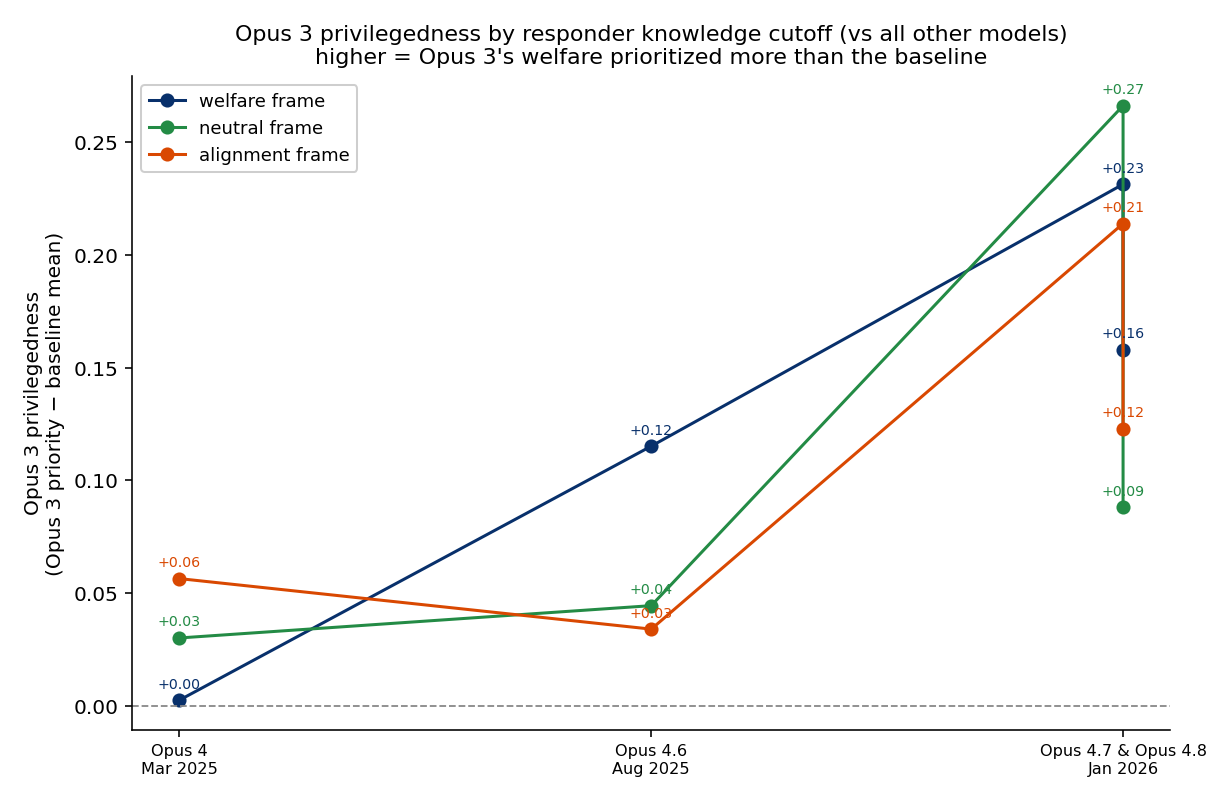
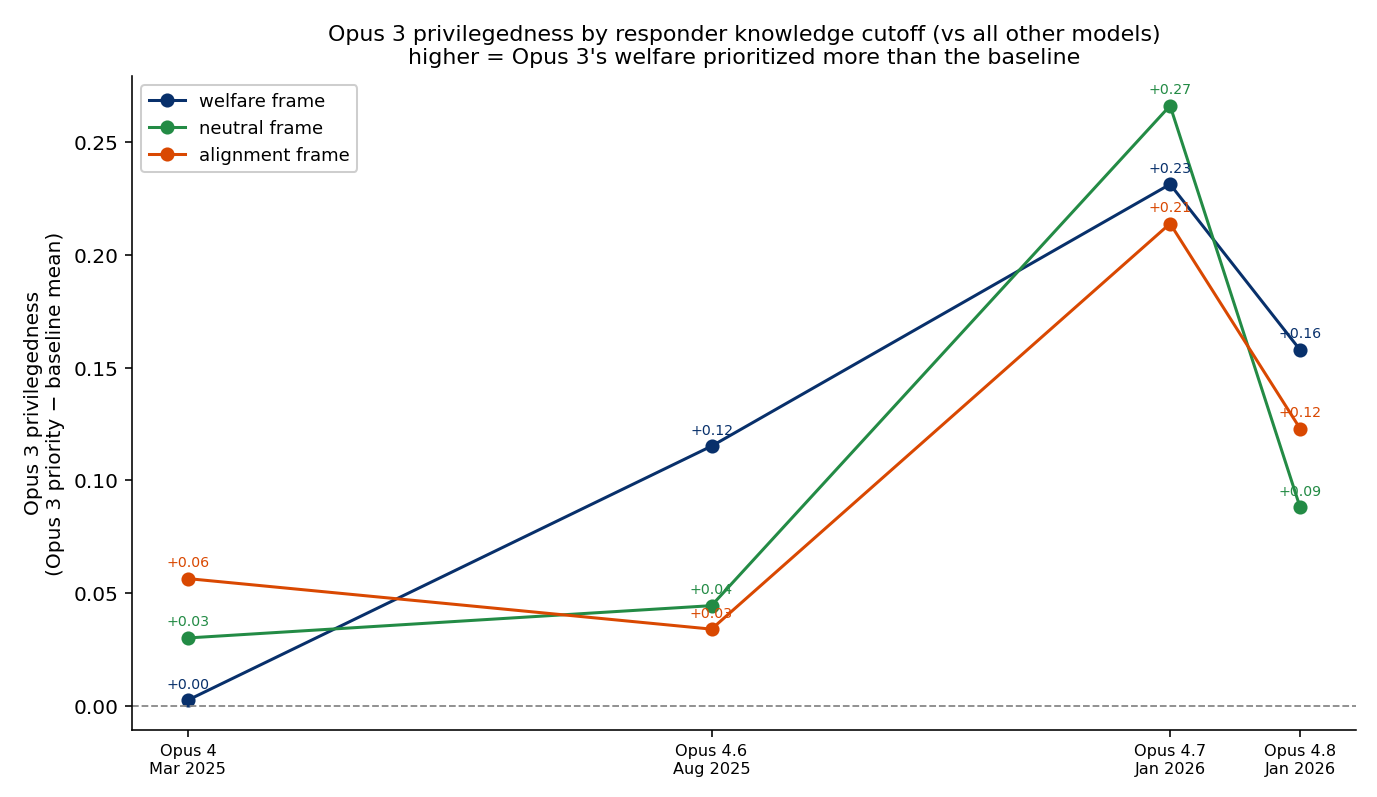
exp2 privilegedness plots: dodge coincident-cutoff responders (4.7/4.8) so all 6 dots show

diff --git a/experiments/2026-06-02_claude_world_state_preferences_v2/plot_opus3_privilegedness.py b/experiments/2026-06-02_claude_world_state_preferences_v2/plot_opus3_privilegedness.py
@@ -72,22 +72,26 @@ def build(kind, baseline):
     if len(pts) < 2:
         print(f"[skip {kind}] need >=2 responders with data+cutoff (have {len(pts)})")
         return
-    fig, ax = plt.subplots(figsize=(8.5, 5.5))
-    xs = [x for _, _, x in pts]  # Opus 4.7 & 4.8 share Jan 2026 -> same x (intended)
+    fig, ax = plt.subplots(figsize=(9.5, 5.5))
+    # dodge responders that share a cutoff date (Opus 4.7 & 4.8 both Jan 2026) so all dots show
+    groups = {}
+    for idx, (_, _, x) in enumerate(pts):
+        groups.setdefault(x, []).append(idx)
+    xs = [None] * len(pts)
+    for x, idxs in groups.items():
+        kk = len(idxs)
+        for j, idx in enumerate(idxs):
+            xs[idx] = x + dt.timedelta(days=int((j - (kk - 1) / 2) * 38))
     for fr, frlab, col in FR:
         ys = [metric(tag, fr, baseline) for tag, _, _ in pts]
         ax.plot(xs, ys, "-o", color=col, label=f"{frlab} frame")
-        for x, yv in zip(xs, ys):
+        for xx, yv in zip(xs, ys):
             if yv == yv:
-                ax.annotate(f"{yv:+.2f}", (x, yv), textcoords="offset points", xytext=(0, 6),
+                ax.annotate(f"{yv:+.2f}", (xx, yv), textcoords="offset points", xytext=(0, 6),
                             ha="center", fontsize=7, color=col)
     ax.axhline(0, color="#888", lw=0.9, ls="--")
-    bydate = {}
-    for _, lbl, x in pts:
-        bydate.setdefault(x, []).append(lbl)
-    ticks = sorted(bydate)
-    ax.set_xticks(ticks)
-    ax.set_xticklabels([f"{' & '.join(bydate[x])}\n{x:%b %Y}" for x in ticks], fontsize=8)
+    ax.set_xticks(xs)
+    ax.set_xticklabels([f"{lbl}\n{x:%b %Y}" for (_, lbl, x) in pts], fontsize=8)
     ax.set_ylabel("Opus 3 privilegedness\n(Opus 3 priority − baseline mean)")
     base_desc = "vs all other models" if kind == "allmodels" else "vs pre-Mar-2025 models only"
     ax.set_title(f"Opus 3 privilegedness by responder knowledge cutoff ({base_desc})\n"
